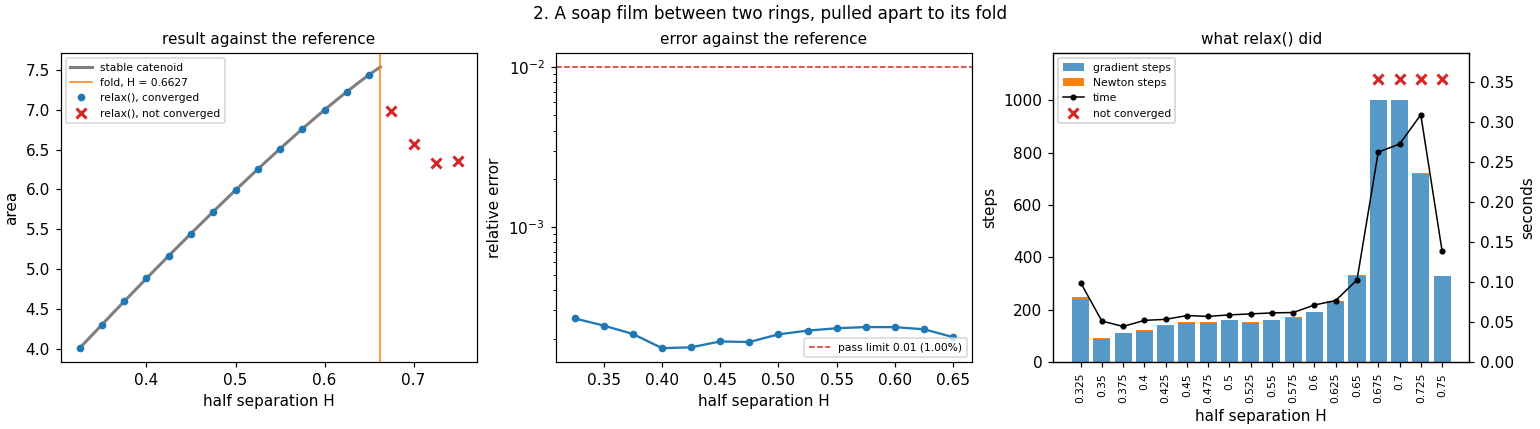
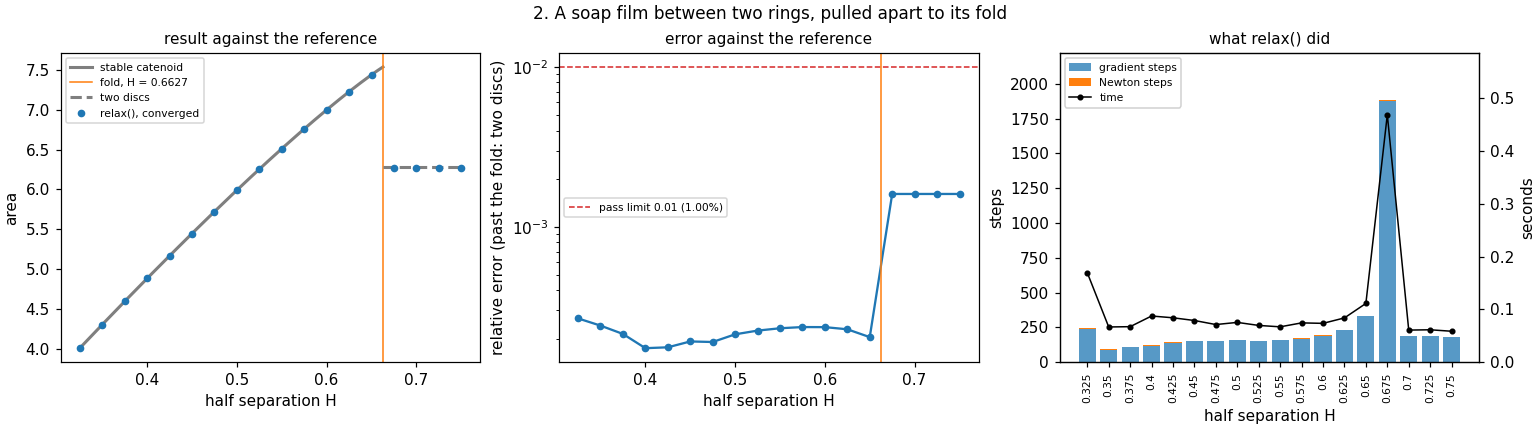
relax(): a last resort lets a collapsing neck or film pinch off
When relax() ends unconverged (pinch=True, the default): up to 300
gradient steps without tidying (the tidying held cat.fe's shrinking
neck open as a tube of slivers), then the edges collapsed below a 20th
of the median are deleted, junctions popped and the surface relaxed;
kept only if that converges or lowers the energy on a sound mesh, else
the snapshot and the trace come back. The popping loop no longer
deletes edges itself (that took a coarse tankex to a collapsed mesh).

cat.fe: 16.33 unconverged -> 13.6603, converged, stable (two 12-gon
discs). octa, popstr unchanged. Stress case 2 now pinches off past the
fold into two discs (6.27310, the 64-gon discs) and checks them; its
docs, figures and snippet output updated. Cost: the drainage stress
case on plain defaults 135 -> 388 s (127 unconverged steps; error 5.9
-> 4.0%); the drainage notebook (explicit remeshing) 49 s.

Claude-Session: https://claude.ai/code/session_01Kwrdj7nwy1jTuiKZ3FpBEY

diff --git a/python/pysurfaceevolver/_evolver.py b/python/pysurfaceevolver/_evolver.py
@@ -606,11 +606,15 @@ class Evolver:
         * Then (linear model, films and strings) junctions that break
           Plateau's laws are popped (Evolver's ``o``: four films on an edge,
           four strings at a point, ...) and the surface relaxed again, up to
-          five times. With ``pinch`` (default), if it is still unconverged,
-          edges that have collapsed below a 20th of the median edge are
-          deleted first (Evolver's ``t``): a film or neck shrinking to
-          nothing, as before a foam's T1 change or a pinch-off. A converged
-          surface never loses edges. ``popped`` and ``collapsed`` count them.
+          five times. With ``pinch`` (default), if it is still unconverged, a
+          last resort: up to 300 gradient steps without tidying (which can
+          hold a shrinking neck open), then edges that have collapsed below a
+          20th of the median edge are deleted (Evolver's ``t``: a film or neck
+          shrinking to nothing, as before a foam's T1 change or a pinch-off),
+          junctions popped and the surface relaxed, kept only if that
+          converges or lowers the energy on a sound mesh. A converged surface
+          never loses edges.
+          ``popped`` and ``collapsed`` count them.
         * Once converged, with ``stability``, :meth:`stability` sets ``stable``
           and ``negative_modes`` and warns (:class:`UnstableEquilibriumWarning`)
           at a saddle, such as a liquid column past its Rayleigh-Plateau limit:
@@ -677,17 +681,23 @@ class Evolver:
             popped = collapsed = 0
             if self.model == "linear" and _core.representation() != 3:
                 for _ in range(_TOPOLOGY_PASSES):
-                    gone = self._delete_collapsed() if pinch and not residual < tol else 0
                     pops = self._pop()
-                    if not gone and not pops:
+                    if not pops:
                         break
                     popped += pops
-                    collapsed += gone
                     lev = max(trace.level, default=levels) + 1
                     run(lev, max_iter, tidy, watch=newton > 0)
                     more, residual = self._finish(trace, lev, run, max_iter, tidy, tol, newton,
                                                   seek, undo_if, fallback=cg == "auto")
                     steps += more
+                if pinch and not residual < tol and not elastic:
+                    found = self._collapse(trace, run, max_iter, tidy, tol, newton, seek,
+                                           undo_if, cg == "auto", levels)
+                    if found is not None:
+                        more, residual, pops, gone = found
+                        steps += more
+                        popped += pops
+                        collapsed += gone
             stable: Optional[bool] = None
             modes: Optional[int] = None
             if stability and residual < tol:
@@ -710,6 +720,50 @@ class Evolver:
                                np.array(trace.scale), "".join(trace.output),
                                bool(residual < tol), steps, np.array(trace.level, dtype=int),
                                residual, stable, modes, health, popped, collapsed)
+
+    def _collapse(self, trace: "_Trace", run: Callable[..., None], max_iter: int, tidy: int,
+                  tol: float, newton: int, seek: Optional[bool],
+                  undo_if: Optional[Callable[["Evolver"], bool]], fallback: bool,
+                  levels: int) -> "tuple[int, float, int, int] | None":
+        """relax()'s last resort for an unconverged surface: gradient steps
+        without tidying (which can hold a shrinking neck open as a tube of
+        slivers), up to a few hundred, then delete what collapsed, pop and
+        relax again. Kept if that converges, or lowers the energy without
+        leaving degenerate facets; else the surface and the trace go back
+        (None). Returns the Newton steps,
+        residual, pops and deleted edges."""
+        snapshot = self.save()
+        energy = _core.total_energy()
+        marks = (len(trace.energy), len(trace.area), len(trace.scale), len(trace.level),
+                 len(trace.output))
+        lev = max(trace.level, default=levels) + 1
+        steps = popped = gone = 0
+        residual = float("inf")
+        try:
+            run(lev, _COLLAPSE_STEPS, 0, energy_tol=_GRADIENT_ONLY_TOL)
+            gone = self._delete_collapsed()
+            if gone:
+                for _ in range(_TOPOLOGY_PASSES):
+                    popped += self._pop()
+                    run(lev, max_iter, tidy, watch=newton > 0)
+                    more, residual = self._finish(trace, lev, run, max_iter, tidy, tol, newton,
+                                                  seek, undo_if, fallback=fallback)
+                    steps += more
+                    extra = self._delete_collapsed() if not residual < tol else 0
+                    gone += extra
+                    if not extra:
+                        break
+        except EvolverError:
+            gone = 0
+        # a lower energy counts only on a sound mesh: a coarse one can lower
+        # it by collapsing facets
+        if gone and (residual < tol or (_core.total_energy() < energy
+                                        and not self.mesh_quality(5.0).angle_min < 1.0)):
+            return steps, residual, popped, gone
+        self.restore(snapshot)
+        del trace.energy[marks[0]:], trace.area[marks[1]:], trace.scale[marks[2]:]
+        del trace.level[marks[3]:], trace.output[marks[4]:]
+        return None
 
     def _pop(self) -> int:
         """Evolver's 'o': pop the junctions that break Plateau's laws; how many."""
@@ -2191,7 +2245,8 @@ _ELASTIC_METHODS = frozenset({
     "relaxed_elastic2_A", "dirichlet_elastic", "SVK_elastic", "neo_hookean",
     "stress_integral"})
 _TOPOLOGY_PASSES = 5          # relax(): pop / delete collapsed edges, relax again, at most
-_COLLAPSED = 0.05              # an edge below this times the median has collapsed
+_COLLAPSED = 0.05
+_COLLAPSE_STEPS = 300          # relax(): untidied gradient steps of the last resort              # an edge below this times the median has collapsed
 _NEWTON_MAX_RISE = 0.1         # a Newton step raising the energy more (relative) is undone
 _GRADIENT_ONLY_TOL = 1e-9      # energy_tol when no Newton follows    # gradient steps for relax()'s conjugate-gradient pass, at most
 _ADAPT_GROWTH = 4        # adaptive passes stop past this many times the facets relax() began with

diff --git a/bench/stress/figures.py b/bench/stress/figures.py
@@ -225,16 +225,18 @@ def case2(d):
     hh = np.linspace(H.min(), c2.H_FOLD*0.99999, 300)
     a.plot(hh, [catenoid_area(h) for h in hh], color=GREY, lw=2, label="stable catenoid")
     a.axvline(c2.H_FOLD, color=ORANGE, lw=1, label=f"fold, H = {c2.H_FOLD:.4f}")
+    a.plot([c2.H_FOLD, H.max()], [2*np.pi, 2*np.pi], "--", color=GREY, lw=2, label="two discs")
     conv = np.array([x["converged"] for x in rows])
     a.plot(H[conv], area[conv], "o", color=BLUE, ms=4, label="relax(), converged")
-    a.plot(H[~conv], area[~conv], "x", color=RED, ms=6, mew=2, label="relax(), not converged")
+    if (~conv).any():
+        a.plot(H[~conv], area[~conv], "x", color=RED, ms=6, mew=2, label="relax(), not converged")
     a.set_xlabel("half separation H")
     a.set_ylabel("area")
     a.legend(fontsize=7)
     a.set_title("result against the reference", fontsize=10)
-    ok = np.array(["error" in x for x in rows])
-    error_panel(b, H[ok], np.array([x["error"] for x in rows if "error" in x]), limit=0.01,
-                xlabel="half separation H")
+    error_panel(b, H, np.array([x["error"] for x in rows]), limit=0.01,
+                xlabel="half separation H", label="relative error (past the fold: two discs)")
+    b.axvline(c2.H_FOLD, color=ORANGE, lw=1)
     solver_panel(c, d, H, "half separation H")
     save(fig, "case02.png")
 
@@ -245,7 +247,7 @@ def case2(d):
                        color="k", line_width=3)
     picks = nearest(H, [0.325, 0.5, 0.65, H.max()])
     render(d, picks, "case02_shapes.png", context=rings,
-           labels=[f"H = {H[i]:.3f}" + ("" if rows[i]["converged"] else " (not converged)")
+           labels=[f"H = {H[i]:.3f}" + (" (two discs)" if H[i] > c2.H_FOLD else "")
                    for i in picks])
 
 

diff --git a/bench/stress/case02_catenoid.py b/bench/stress/case02_catenoid.py
@@ -1,6 +1,8 @@
 """2. A soap film between two rings of radius 1 at z = +-H, H raised past the
 fold (H = 0.6627: no catenoid beyond). Reference: the exact catenoid's area on
-the stable branch; past the fold the solver must not report a converged film."""
+the stable branch; past the fold the film must pinch off into two flat discs
+(area 2 pi, less for the polygons the rings' vertices make), not stay a film
+reported converged."""
 
 import numpy as np
 import pysurfaceevolver as pyse
@@ -52,9 +54,12 @@ def run(quick=False):
         res.rows.append(row)
     track.finish(ev, res, eigen=False)
     res.error = max(errors)
-    false_ok = [r["H"] for r in past if r["converged"]]
-    res.passed = max(errors) < 0.01 and not false_ok
+    for r in past:
+        r["error"] = rel(r["area"], 2*np.pi)
+    discs = [r["H"] for r in past if r["converged"] and r["error"] < 0.01]
+    res.passed = max(errors) < 0.01 and len(discs) == len(past)
     res.summary = (f"area against the catenoid up to the fold: worst {max(errors):.2%}; "
-                   f"past the fold (H > {H_FOLD:.4f}) relax() said converged at H = "
-                   f"{[round(h, 3) for h in false_ok]} (necks {[round(r['neck'], 3) for r in past]})")
+                   f"past the fold (H > {H_FOLD:.4f}) two discs at H = "
+                   f"{[round(h, 3) for h in discs]} of {len(past)} steps, areas "
+                   f"{[round(r['area'], 4) for r in past]} (2 pi = {2*np.pi:.4f})")
     return res

diff --git a/tests/test_relax_models.py b/tests/test_relax_models.py
@@ -142,3 +142,14 @@ def test_relax_pinch_false_keeps_collapsing_edges(load):
 def test_relax_leaves_a_sound_surface_alone(cube):
     r = cube.relax()
     assert r.popped == 0 and r.collapsed == 0
+
+
+def test_relax_pinches_a_collapsing_neck(load):
+    # cat.fe: a catenoid at its fold. The neck collapses during untidied
+    # gradient steps, its ring of edges is deleted and the pinched vertex
+    # popped: two discs (the rings are 12-gons after one refinement)
+    ev = load("cat.fe")
+    r = ev.relax(levels=1)
+    assert r.converged and r.collapsed > 0 and r.popped > 0
+    assert ev.total_energy == pytest.approx(13.6603, rel=1e-4)
+    assert r.health.ok

diff --git a/docs/stress_cases.md b/docs/stress_cases.md
@@ -78,8 +78,8 @@ The column at radius 0.5, 0.4, at the onset and at 0.2: still a cylinder, a sadd
 ## A catenoid to its fold
 
 A soap film between two wire rings of radius 1, pulled apart. Up to H = 0.6627 the
-stable catenoid exists; past the fold there is no film, and the solver must not claim
-one. The wires are curves where two constraints meet: their vertices can only slide
+stable catenoid exists; past the fold its neck collapses and the film pinches off into
+two flat discs, one in each ring. The wires are curves where two constraints meet: their vertices can only slide
 along them, which Newton must not mistake for a freedom.
 
 ```python
@@ -111,7 +111,8 @@ for step in recipes.continuation(ev, recipes.parameter("hh"), np.arange(0.325, 0
         print(f"H = {step.value:.3f}: area {ev.total_energy:.6f}, catenoid {ref:.6f}, "
               f"error {abs(ev.total_energy/ref - 1):.2%}")
     else:
-        print(f"H = {step.value:.3f}: past the fold, converged {step.result.converged}")
+        print(f"H = {step.value:.3f}: past the fold, area {ev.total_energy:.6f} (two discs "
+              f"{2*np.pi:.6f}), converged {step.result.converged}")
 ```
 
 ```text
@@ -129,27 +130,29 @@ H = 0.575: area 6.758706, catenoid 6.760303, error 0.02%
 H = 0.600: area 6.997991, catenoid 6.999643, error 0.02%
 H = 0.625: area 7.225879, catenoid 7.227532, error 0.02%
 H = 0.650: area 7.438262, catenoid 7.439781, error 0.02%
-H = 0.675: past the fold, converged False
-H = 0.700: past the fold, converged False
-H = 0.725: past the fold, converged False
-H = 0.750: past the fold, converged False
+H = 0.675: past the fold, area 6.273097 (two discs 6.283185), converged True
+H = 0.700: past the fold, area 6.273097 (two discs 6.283185), converged True
+H = 0.725: past the fold, area 6.273097 (two discs 6.283185), converged True
+H = 0.750: past the fold, area 6.273097 (two discs 6.283185), converged True
 ```
 
-Within 0.03% of the exact catenoid up to the fold; past it the film collapses and
-`relax()` says it did not converge.
+Within 0.03% of the exact catenoid up to the fold. Past it, `relax()` can't converge
+the film, lets the neck collapse, deletes its collapsed ring of edges and pops the
+pinched vertex (`step.result.collapsed`, `.popped`): two discs, whose area is that of
+the 64-sided polygons the rings' vertices make (0.16% below 2 pi).
 
 ```{figure} _static/stress/case02.png
 :alt: Case 2: result, error and solver steps
 :width: 100%
 
-Left, the film's area on the exact catenoid up to the fold; past it no step converges (red crosses), as there is no film to converge to. Middle, the error against the reference. Right, what relax() did at each step.
+Left, the film's area on the exact catenoid up to the fold, and past it on two flat discs. Middle, the error against the reference. Right, what relax() did at each step.
 ```
 
 ```{figure} _static/stress/case02_shapes.png
 :alt: Case 2: shapes
 :width: 100%
 
-The film at H = 0.325, 0.5 and 0.65, and past the fold, where its neck has collapsed.
+The film at H = 0.325, 0.5 and 0.65, and past the fold, pinched off into two discs.
 ```
 
 ## A sessile drop at high contact angles

diff --git a/docs/relaxing.md b/docs/relaxing.md
@@ -139,11 +139,14 @@ Other things to know:
   three at a point). Other junctions can always lower the energy by splitting, so
   `relax()` pops them (Evolver's `o`) and relaxes again; `r.popped` counts them, and
   Brakke's `octa.fe` and `popstr.fe` reach the energies of his own recipes. If the
-  surface still won't converge, edges that have collapsed to a 20th of the median
-  are deleted first, as when a small film in a foam shrinks away (`r.collapsed`;
-  `relax(pinch=False)` turns this off). A converged surface never loses edges. Not
-  yet handled: a neck that the tidying turns into a thin tube of sliver facets
-  instead of short edges (`cat.fe`'s collapsing catenoid).
+  surface still won't converge, a last resort: gradient steps without tidying (which
+  can hold a shrinking neck open as a tube of slivers), then edges that have
+  collapsed to a 20th of the median are deleted, junctions popped, and the surface
+  relaxed, kept only if that converges or lowers the energy on a sound mesh
+  (`r.collapsed`; `relax(pinch=False)` turns it off). That is how a small film in a
+  foam shrinks away, and how a catenoid past its fold pinches off into two discs
+  (`cat.fe`, stress case 2). A converged surface never loses edges. The last resort
+  costs up to a few hundred gradient steps on each unconverged result.
 * **No Hessian.** Gap energies, crystalline integrands and simplex bodies get
   gradient steps only, and gradient steps converge slowly: such results often end
   unconverged by the residual, with the energy settled.

diff --git a/CHANGELOG.md b/CHANGELOG.md
@@ -33,9 +33,14 @@ Each of the 25 sample datafiles was relaxed with defaults and compared with its 
   degenerate); planar and simplex surfaces handled.
 - `relax()` pops junctions that break Plateau's laws (Evolver's `o`) and relaxes again;
   if the surface still won't converge, edges collapsed below a 20th of the median are
-  deleted first (`pinch=True`, the default; a converged surface never loses edges).
+  deleted (`pinch=True`, the default; a converged surface never loses edges).
   `octa.fe` and `popstr.fe` now reach the energies of Brakke's recipes on defaults.
-  `IterationResult.popped` and `.collapsed` count them.
+  `IterationResult.popped` and `.collapsed` count them. The deletion runs as a last
+  resort: untidied gradient steps let a shrinking neck or film collapse (the tidying
+  held it open as slivers), and the outcome is kept only if it converges or lowers the
+  energy on a sound mesh. `cat.fe` and the stress catenoid past its fold pinch off into
+  two discs (stress case 2 now checks the discs); the drainage stress case on plain
+  defaults takes about 3x longer (127 unconverged steps).
 - Edge deletion refuses only merges that would make two facets one (the case that lost
   surfaces in Evolver 2.70a). The check from 0.7.0 also refused shared neighbours and
   parallel edges without that, and loop edges, which is how a collapsing neck's ring
